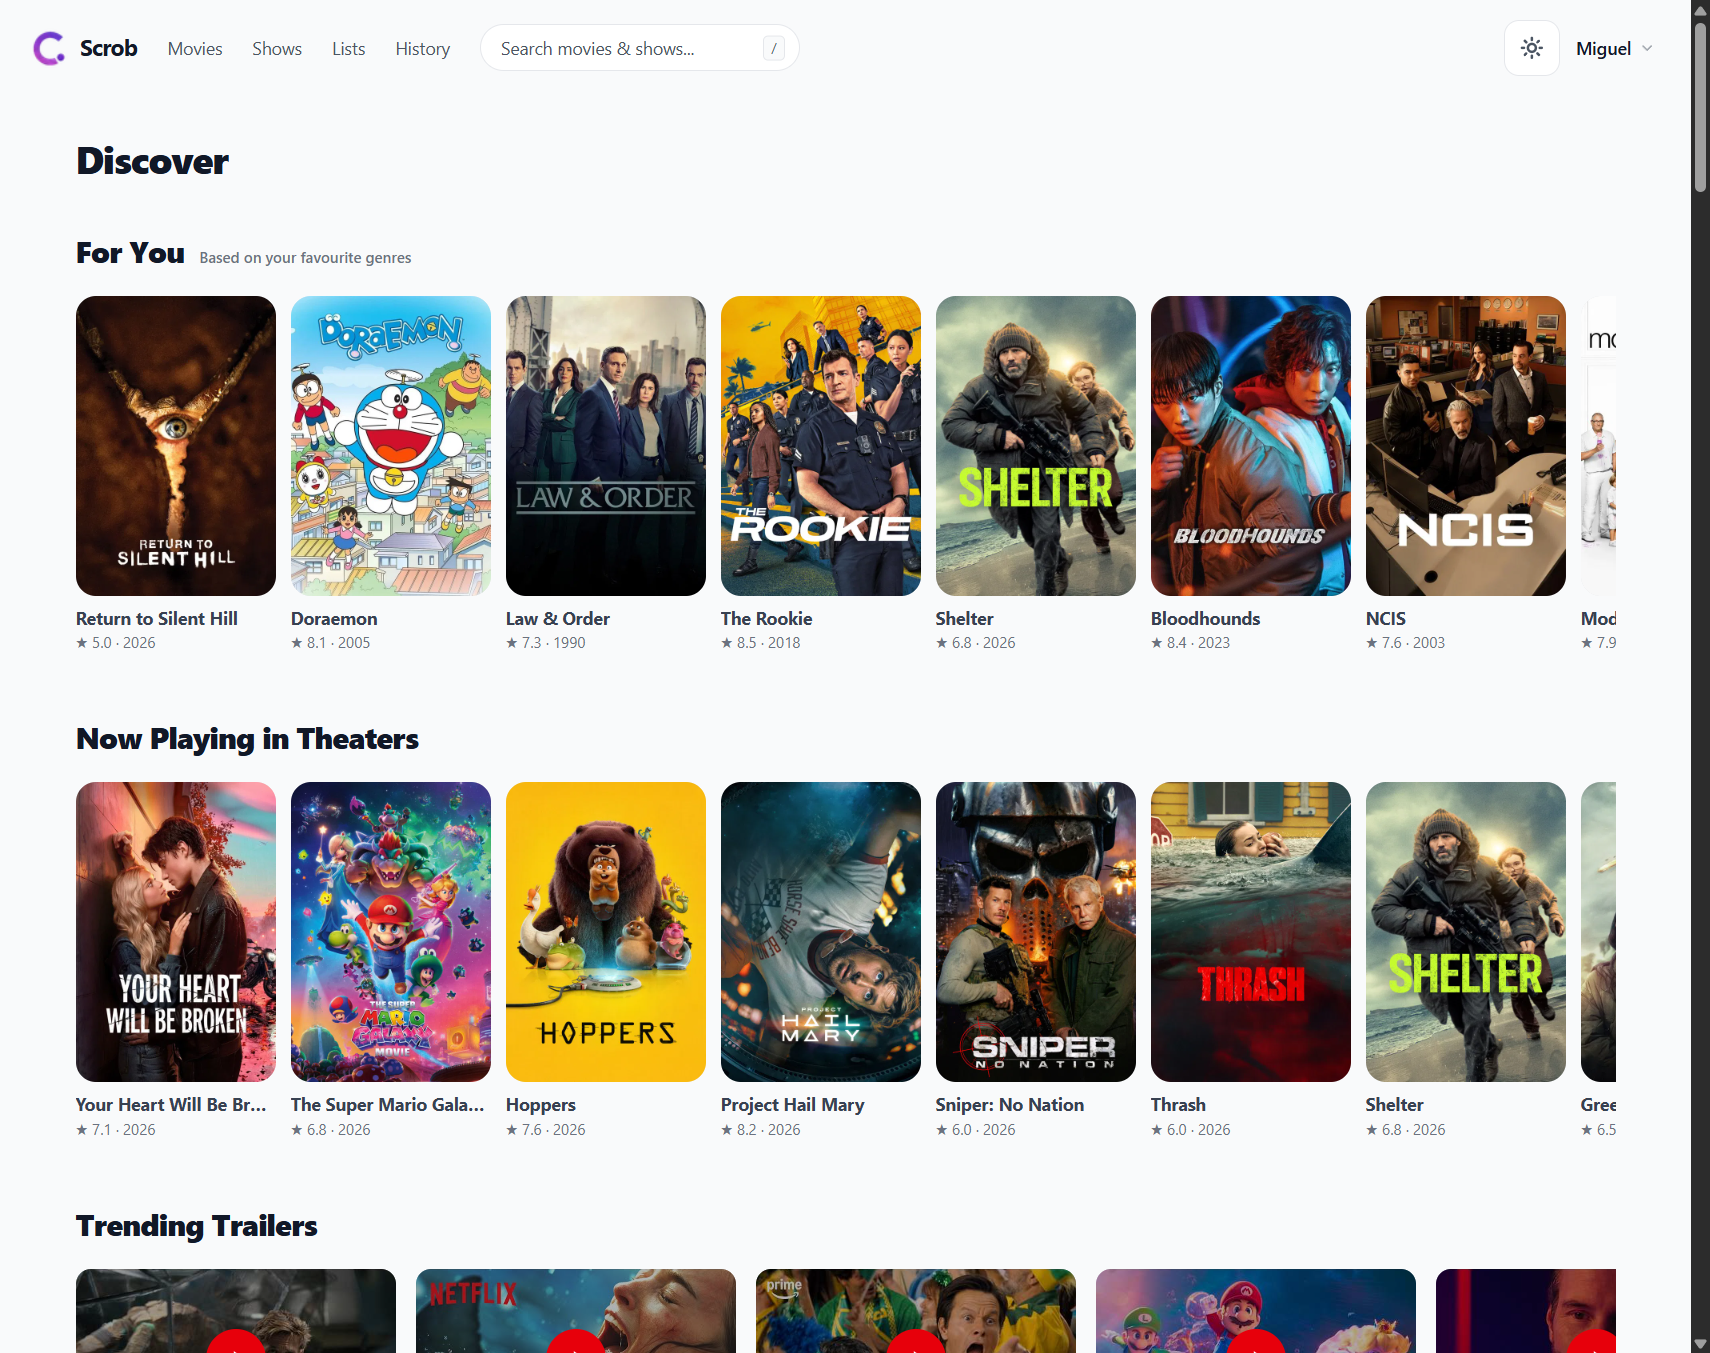
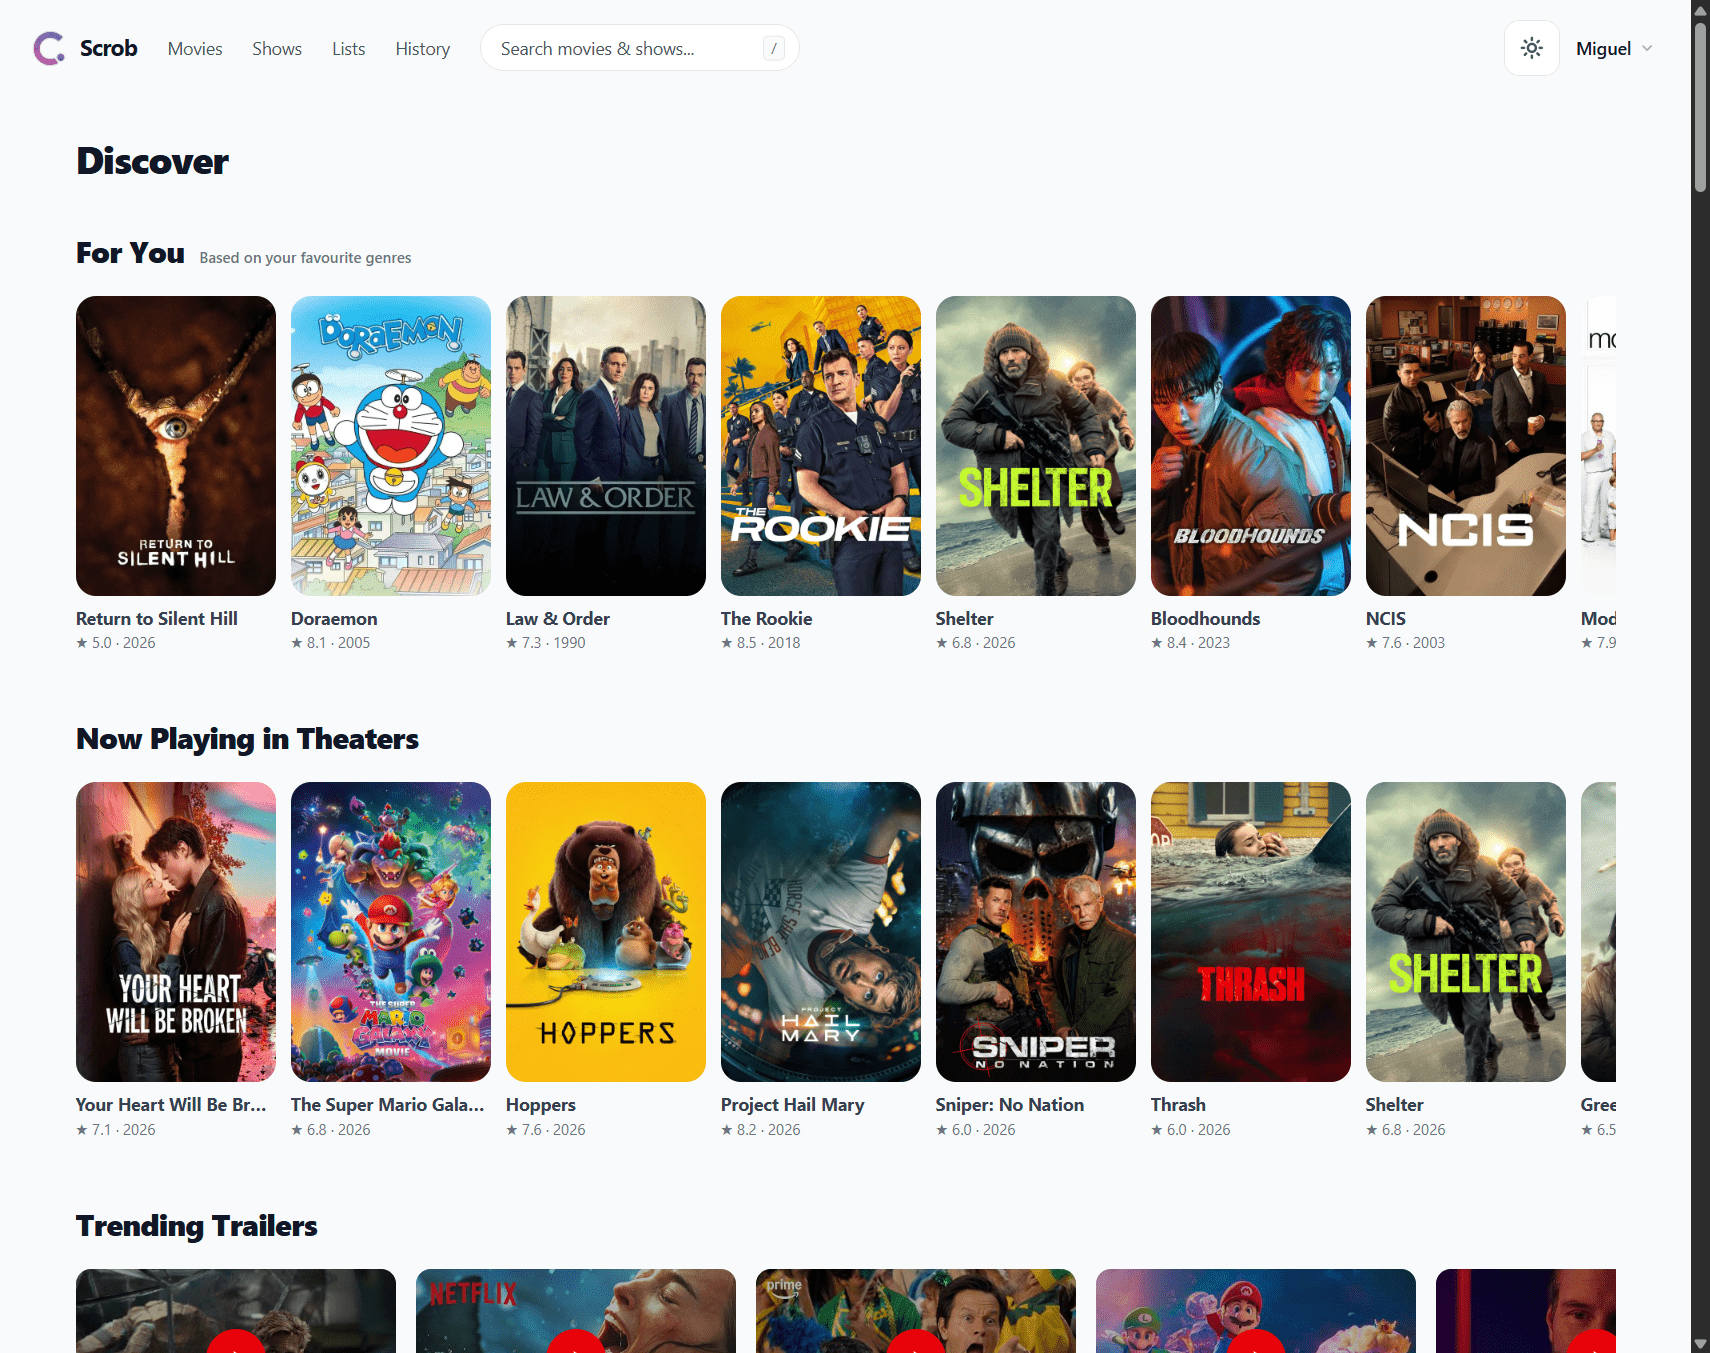
optimize images

Changed region(s): [[0.155, 0.5898, 0.2789, 0.7761], [0.7439, 0.9933, 0.7749, 1.0], [0.217, 0.3104, 0.248, 0.3415]]

diff --git a/index.html b/index.html
@@ -216,6 +216,7 @@
     .dot-y { background: #febc2e; }
     .dot-g { background: #28c840; }
 
+    .screen-frame picture { display: block; }
     .screen-frame img {
       display: block;
       width: 100%;
@@ -322,6 +323,7 @@
     }
 
     .showcase-img { flex: 1; min-width: 0; }
+    .showcase-img picture { display: block; }
     .showcase-img img {
       width: 100%;
       border-radius: var(--radius);
@@ -344,6 +346,8 @@
       box-shadow: 0 10px 50px rgba(0,0,0,.6);
       transition: transform .3s;
     }
+
+    .mobile-stacked picture { display: contents; }
 
     .mobile-stacked .img-back {
       transform: translateX(-60px);
@@ -449,7 +453,10 @@
   <!-- Nav -->
   <nav>
     <a href="#" class="nav-logo">
-      <img src="images/scrob-logo.png" alt="Scrob" />
+      <picture>
+        <source srcset="images/scrob-logo.webp" type="image/webp" />
+        <img src="images/scrob-logo.png" alt="Scrob" />
+      </picture>
       Scrob
     </a>
     <div class="nav-links">
@@ -486,7 +493,10 @@
           <div class="dot dot-y"></div>
           <div class="dot dot-g"></div>
         </div>
-        <img src="images/scrob-dashboard.png" alt="Scrob dashboard" width="1000"/>
+        <picture>
+          <source srcset="images/scrob-dashboard.webp" type="image/webp" />
+          <img src="images/scrob-dashboard.png" alt="Scrob dashboard" width="1000" />
+        </picture>
       </div>
     </div>
   </section>
@@ -577,7 +587,10 @@
         <p>Cast, ratings, file details, quality info, genres — all pulled together from TMDB and your library. Rate, add to lists, or send a one-click download request to Radarr or Sonarr, without leaving the page.</p>
       </div>
       <div class="showcase-img">
-        <img src="images/scrob-item.png" alt="Movie detail page" width="800" loading="lazy" />
+        <picture>
+          <source srcset="images/scrob-item.webp" type="image/webp" />
+          <img src="images/scrob-item.png" alt="Movie detail page" width="800" loading="lazy" />
+        </picture>
       </div>
     </div>
 
@@ -588,7 +601,10 @@
         <p>Light or Dark theme? You choose.</p>
       </div>
       <div class="showcase-img">
-        <img src="images/scrob-light.png" alt="Light mode discover page" width="800" loading="lazy" />
+        <picture>
+          <source srcset="images/scrob-light.webp" type="image/webp" />
+          <img src="images/scrob-light.png" alt="Light mode discover page" width="800" loading="lazy" />
+        </picture>
       </div>
     </div>
 
@@ -599,8 +615,14 @@
         <p>Install Scrob as a PWA on your phone and get a fully native-feeling app. Browse history, manage lists, and discover new titles on the go.</p>
       </div>
       <div class="showcase-img mobile-stacked">
-        <img src="images/scrob-mobile.png" class="img-back" alt="Mobile watch history" width="260" loading="lazy" />
-        <img src="images/scrob-mobile-light.png" class="img-front" alt="Mobile watch history light" width="260" loading="lazy" />
+        <picture>
+          <source srcset="images/scrob-mobile.webp" type="image/webp" />
+          <img src="images/scrob-mobile.png" class="img-back" alt="Mobile watch history" width="260" loading="lazy" />
+        </picture>
+        <picture>
+          <source srcset="images/scrob-mobile-light.webp" type="image/webp" />
+          <img src="images/scrob-mobile-light.png" class="img-front" alt="Mobile watch history light" width="260" loading="lazy" />
+        </picture>
       </div>
     </div>
 
@@ -627,7 +649,10 @@
   <!-- Footer -->
   <footer>
     <div class="footer-logo">
-      <img src="images/scrob-logo.png" alt="Scrob" />
+      <picture>
+        <source srcset="images/scrob-logo.webp" type="image/webp" />
+        <img src="images/scrob-logo.png" alt="Scrob" />
+      </picture>
       Scrob
     </div>
     <div class="footer-links">
